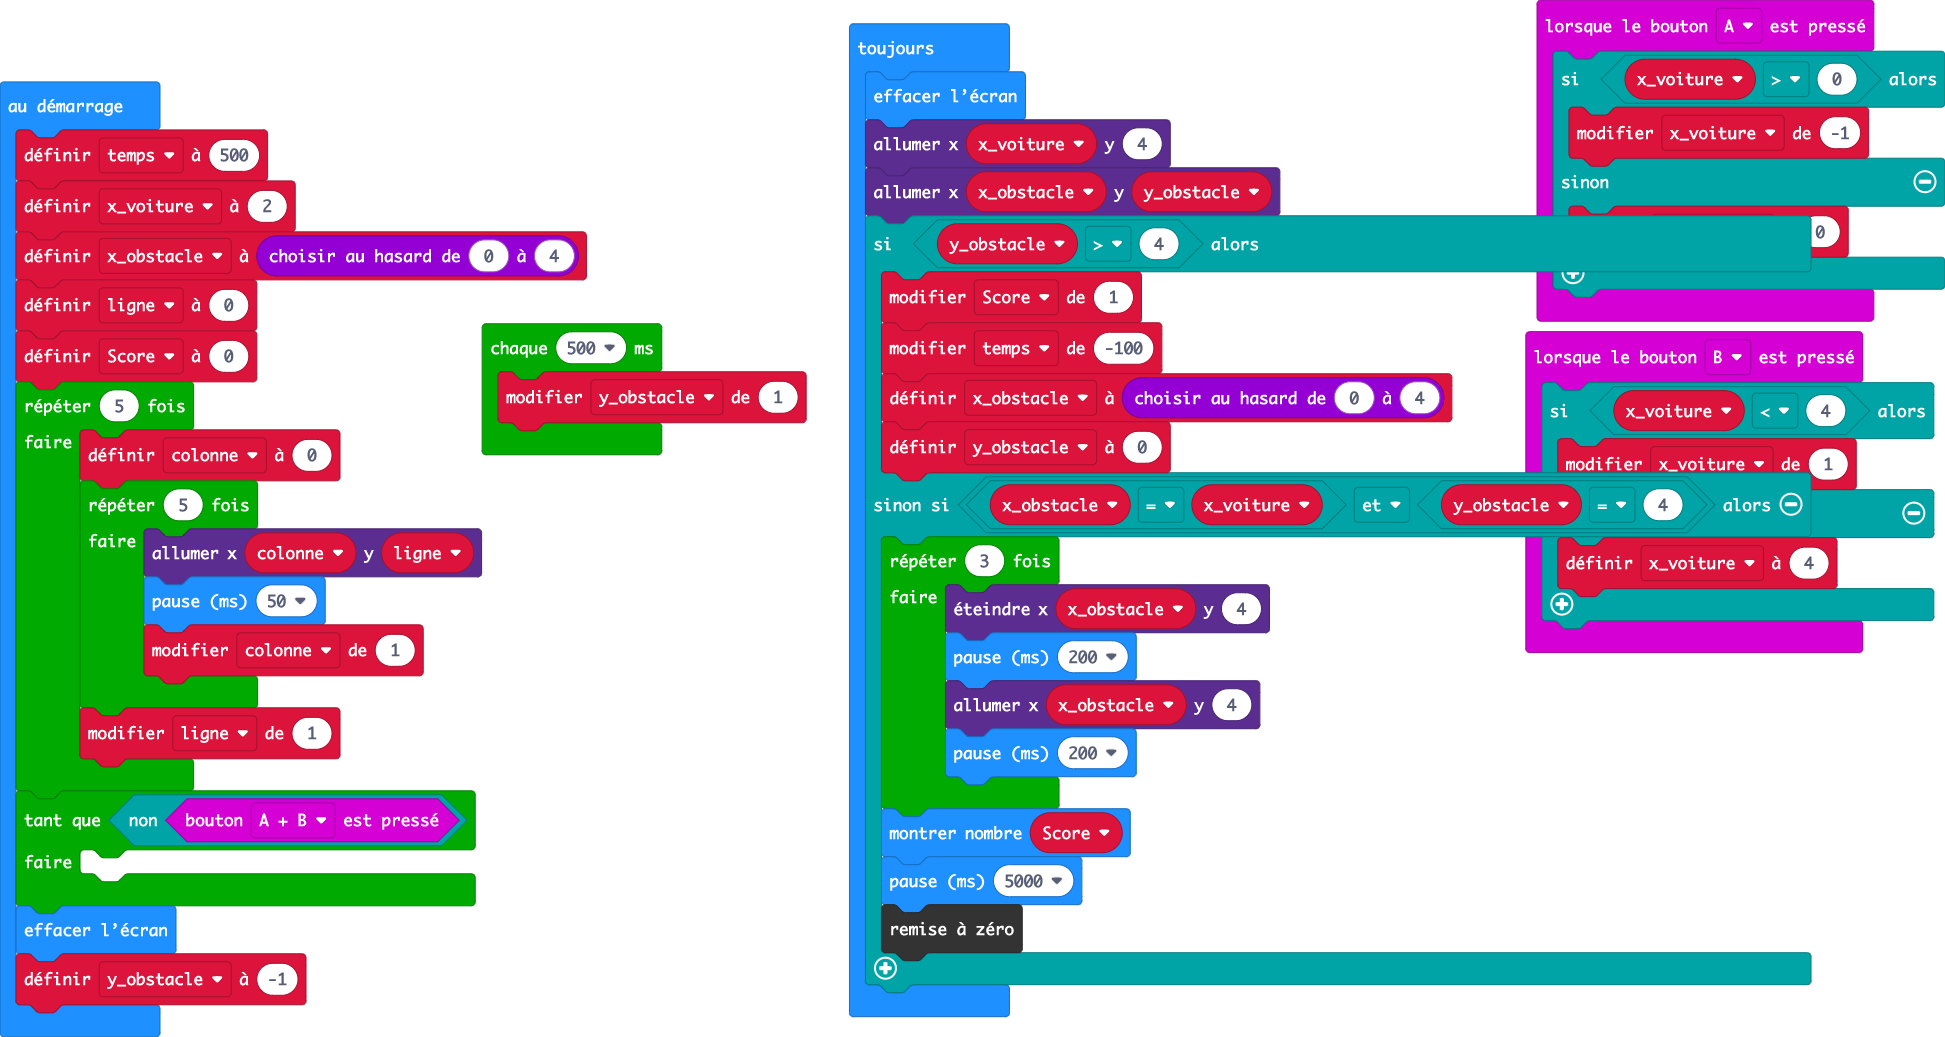
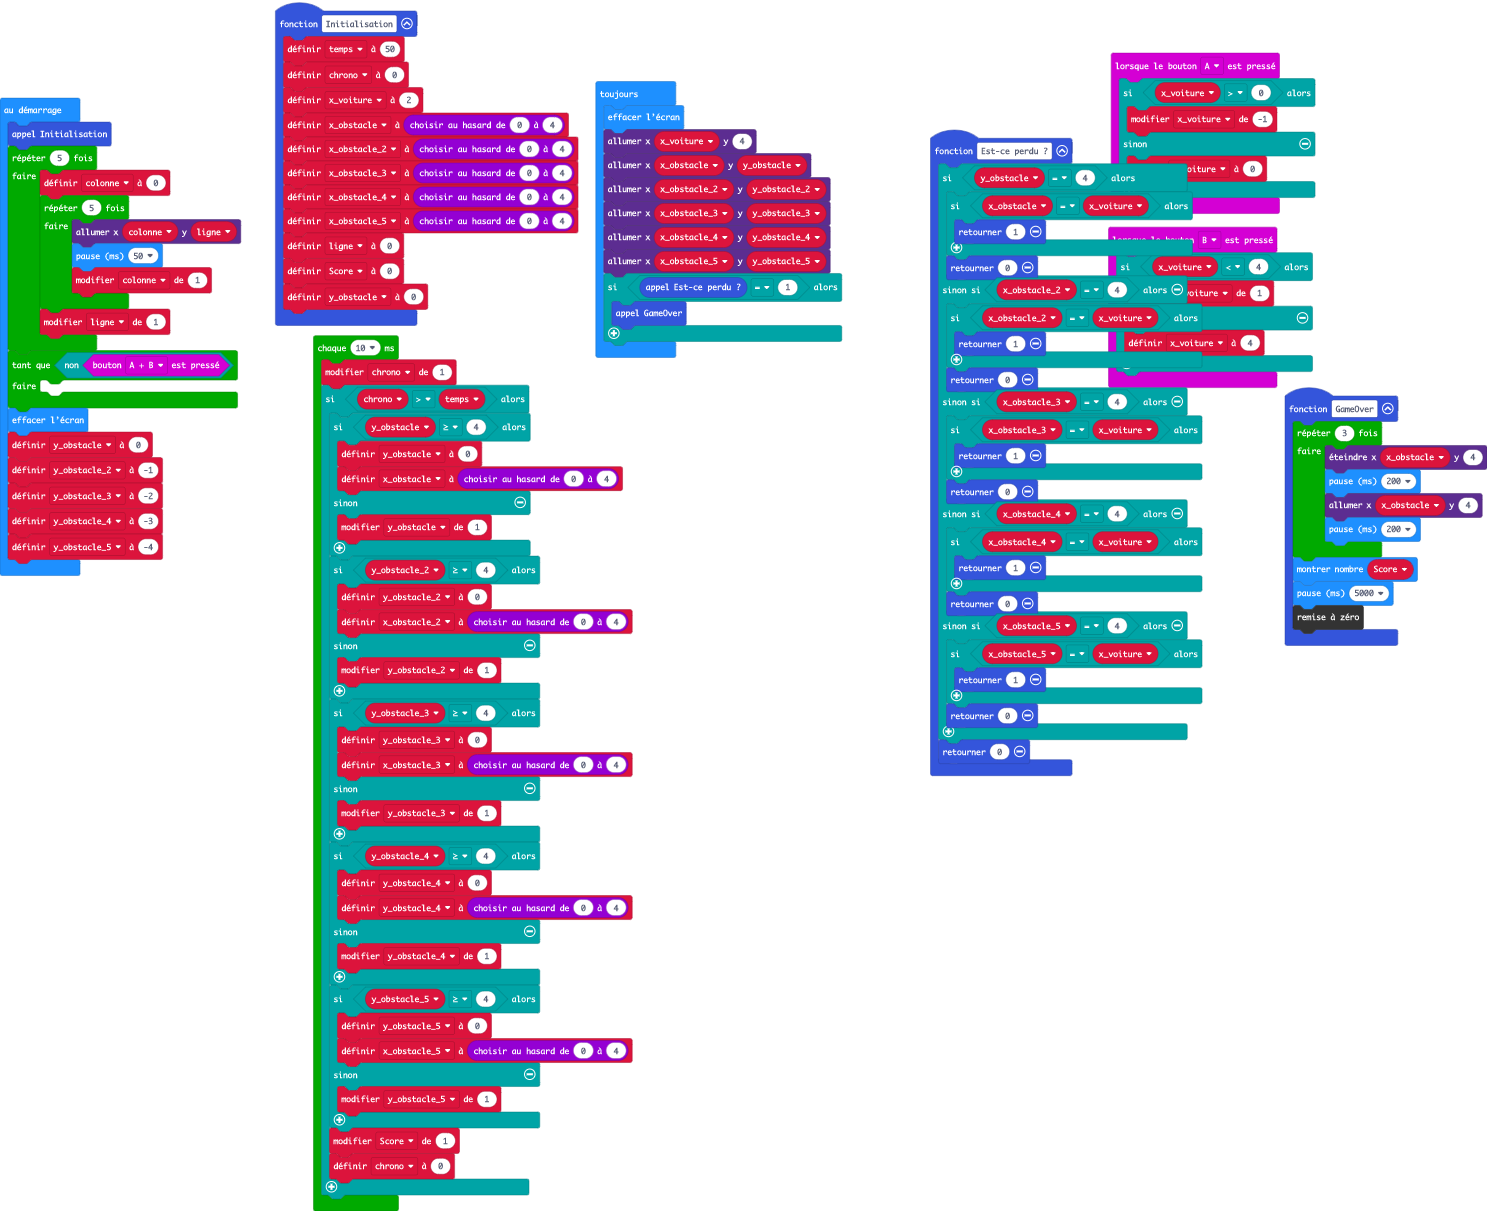
Mise à jour main.blocks, main.ts

diff --git a/main.ts b/main.ts
@@ -1,3 +1,16 @@
+function Initialisation () {
+    temps = 50
+    chrono = 0
+    x_voiture = 2
+    x_obstacle = randint(0, 4)
+    x_obstacle_2 = randint(0, 4)
+    x_obstacle_3 = randint(0, 4)
+    x_obstacle_4 = randint(0, 4)
+    x_obstacle_5 = randint(0, 4)
+    ligne = 0
+    Score = 0
+    y_obstacle = 0
+}
 input.onButtonPressed(Button.A, function () {
     if (x_voiture > 0) {
         x_voiture += -1
@@ -12,13 +25,59 @@ input.onButtonPressed(Button.B, function () {
         x_voiture = 4
     }
 })
-let colonne = 0
-let x_voiture = 0
-let temps = 500
-x_voiture = 2
-let x_obstacle = randint(0, 4)
-let ligne = 0
+function Estce_perdu_ () {
+    if (y_obstacle == 4) {
+        if (x_obstacle == x_voiture) {
+            return 1
+        }
+        return 0
+    } else if (x_obstacle_2 == 4) {
+        if (x_obstacle_2 == x_voiture) {
+            return 1
+        }
+        return 0
+    } else if (x_obstacle_3 == 4) {
+        if (x_obstacle_3 == x_voiture) {
+            return 1
+        }
+        return 0
+    } else if (x_obstacle_4 == 4) {
+        if (x_obstacle_4 == x_voiture) {
+            return 1
+        }
+        return 0
+    } else if (x_obstacle_5 == 4) {
+        if (x_obstacle_5 == x_voiture) {
+            return 1
+        }
+        return 0
+    }
+    return 0
+}
+function GameOver () {
+    for (let index = 0; index < 3; index++) {
+        led.unplot(x_obstacle, 4)
+        basic.pause(200)
+        led.plot(x_obstacle, 4)
+        basic.pause(200)
+    }
+    basic.showNumber(Score)
+    basic.pause(5000)
+    control.reset()
+}
 let Score = 0
+let x_obstacle_5 = 0
+let x_obstacle_4 = 0
+let x_obstacle_3 = 0
+let x_obstacle_2 = 0
+let x_obstacle = 0
+let x_voiture = 0
+let chrono = 0
+let temps = 0
+let y_obstacle = 0
+let ligne = 0
+let colonne = 0
+Initialisation()
 for (let index = 0; index < 5; index++) {
     colonne = 0
     for (let index = 0; index < 5; index++) {
@@ -32,28 +91,57 @@ while (!(input.buttonIsPressed(Button.AB))) {
 	
 }
 basic.clearScreen()
-let y_obstacle = -1
-loops.everyInterval(500, function () {
-    y_obstacle += 1
+y_obstacle = 0
+let y_obstacle_2 = -1
+let y_obstacle_3 = -2
+let y_obstacle_4 = -3
+let y_obstacle_5 = -4
+loops.everyInterval(10, function () {
+    chrono += 1
+    if (chrono > temps) {
+        if (y_obstacle >= 4) {
+            y_obstacle = 0
+            x_obstacle = randint(0, 4)
+        } else {
+            y_obstacle += 1
+        }
+        if (y_obstacle_2 >= 4) {
+            y_obstacle_2 = 0
+            x_obstacle_2 = randint(0, 4)
+        } else {
+            y_obstacle_2 += 1
+        }
+        if (y_obstacle_3 >= 4) {
+            y_obstacle_3 = 0
+            x_obstacle_3 = randint(0, 4)
+        } else {
+            y_obstacle_3 += 1
+        }
+        if (y_obstacle_4 >= 4) {
+            y_obstacle_4 = 0
+            y_obstacle_4 = randint(0, 4)
+        } else {
+            y_obstacle_4 += 1
+        }
+        if (y_obstacle_5 >= 4) {
+            y_obstacle_5 = 0
+            x_obstacle_5 = randint(0, 4)
+        } else {
+            y_obstacle_5 += 1
+        }
+        Score += 1
+        chrono = 0
+    }
 })
 basic.forever(function () {
     basic.clearScreen()
     led.plot(x_voiture, 4)
     led.plot(x_obstacle, y_obstacle)
-    if (y_obstacle > 4) {
-        Score += 1
-        temps += -100
-        x_obstacle = randint(0, 4)
-        y_obstacle = 0
-    } else if (x_obstacle == x_voiture && y_obstacle == 4) {
-        for (let index = 0; index < 3; index++) {
-            led.unplot(x_obstacle, 4)
-            basic.pause(200)
-            led.plot(x_obstacle, 4)
-            basic.pause(200)
-        }
-        basic.showNumber(Score)
-        basic.pause(5000)
-        control.reset()
+    led.plot(x_obstacle_2, y_obstacle_2)
+    led.plot(x_obstacle_3, y_obstacle_3)
+    led.plot(x_obstacle_4, y_obstacle_4)
+    led.plot(x_obstacle_5, y_obstacle_5)
+    if (Estce_perdu_() == 1) {
+        GameOver()
     }
 })
